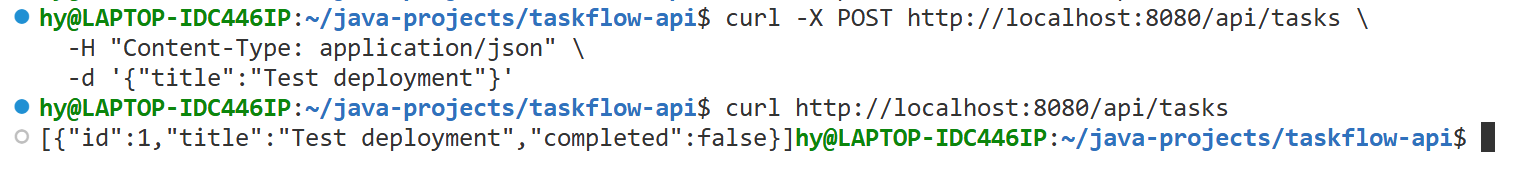
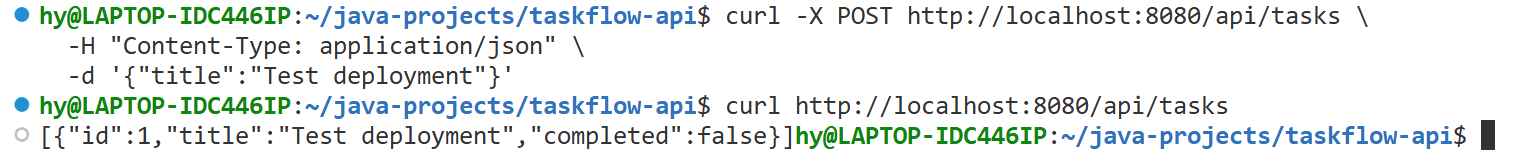
Add option 4 stretch goal; update screenshots and README.md

diff --git a/README.md b/README.md
@@ -46,8 +46,10 @@ Example request to create a task:
 ```bash
 curl -X POST http://localhost:8080/api/tasks \
   -H 'Content-Type: application/json' \
-  -d '{"title":"Test deployment","completed":false}'
+  -d '{"title":"Test deployment"}'
 ```
+![alt text](screenshots/curlxlocalhost.png)
+
 The summary endpoint uses the configured OpenRouter OpenAI key and requires an `OPENAI_API_KEY` environment variable.
 
 Keep the key in an environment variable in ~/.bashrc:
@@ -91,7 +93,6 @@ curl http://localhost:8080/api/tasks
 ![alt text](screenshots/httplocalhosttest.png)
 
 
-
 To run with Maven instead, set `OPENAI_API_KEY` in your environment and run `./mvnw spring-boot:run` (Windows: `mvnw.cmd spring-boot:run`). The Dockerfile builds the JAR in a Maven stage and runs it on the Java 21 JRE image, exposing port `8080`.
 
 
@@ -107,10 +108,56 @@ curl -X POST https://task-management-api-0kea.onrender.com/api/tasks \
   -H "Content-Type: application/json" \
   -d '{"title":"Test deployment","completed":true}'
 ```
+![alt text](screenshots/curlxapi.png)
 
 6. Verify the deployment with `curl https://task-management-api-0kea.onrender.com/api/tasks` 
+
+
+![alt text](screenshots/curlapitest.png)
 
 ![alt text](screenshots/httpapitest.png)
 
 
-  
+# Stretch Goal
+### Option 4: Publish versioned Docker images
+
+2 taskflow Docker images, `1.0.0` and `1.0.1`, were built and pushed to Docker Hub. Images use Semantic Versioning (SemVer). 
+
+### Semantic Versioning (SemVer) Format
+
+```
+MAJOR.MINOR.PATCH
+```
+
+- **MAJOR** – Incompatible API changes (breaking changes)
+- **MINOR** – Backwards-compatible feature additions
+- **PATCH** – Backwards-compatible bug fixes
+
+
+### Example:
+Starting version: `1.0.0`
+| Change | New Version | Reason |
+|--------|-------------|--------|
+| Fix bug in login | `1.0.1` | Patch - bug fix |
+| Add new "export" feature | `1.1.0` | Minor - new feature |
+| Change API response format | `2.0.0` | Major - breaking change |
+
+
+### Docker Image Tags
+
+The `latest` tag points to the newest release, currently `1.0.1`. 
+
+
+![alt text](screenshots/tags.png)
+
+
+
+![alt text](screenshots/latest.png)
+
+![alt text](screenshots/1.0.1.png)
+
+Same index digests mean that both version tags, `1.0.1` and `latest`, point to the same build of the image. 
+
+![alt text](screenshots/1.0.0.png)
+
+The `1.0.0` tag has a different digest as it represents the previous build of the image.
